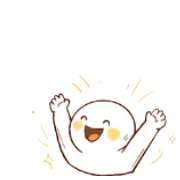
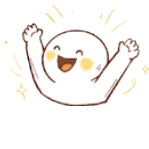
feat(ui): update timeline card layout with editorial dateline and top-right illustration
- Move character headshot to top-right corner with symmetric 18px insets
- Position timestamp as an editorial subheader dateline below emotion title
- Allow reflection note to span full card width below the header row
- Crop headshot PNG assets tightly to ink bounds for optical corner alignment

diff --git a/src/components/TimelineCard.tsx b/src/components/TimelineCard.tsx
@@ -130,30 +130,29 @@ export const TimelineCard: React.FC<Props> = ({ checkIn, onEdit, onDelete }) => 
           onPress={handleCardPress}
           style={styles.cardInner}
         >
-          {/* Main Card Content: Emotion Title + Reflection Note on Left, Time + Character on Right */}
-          <View style={styles.topSection}>
-            <View style={styles.contentColumn}>
+          {/* Arrangement: Header row (Title + Time on left, Illustration on right), Note below */}
+          <View style={styles.headerRow}>
+            <View style={styles.titleBlock}>
               <Text style={[styles.emotionTitle, { color: theme.text }]}>
                 {checkIn.primaryEmotion}
               </Text>
-              {Boolean(noteContent) && (
-                <Text style={[styles.noteText, { color: theme.textSecondary }]}>
-                  {noteContent}
-                </Text>
-              )}
-            </View>
-
-            <View style={styles.rightBay}>
               <Text style={[styles.timeText, { color: theme.textMuted }]}>
                 {timeFormatted}
               </Text>
-              <Image
-                source={QUADRANT_HEADSHOTS[checkIn.quadrant] || QUADRANT_HEADSHOTS.green}
-                style={styles.bayIllustration}
-                resizeMode="contain"
-              />
             </View>
+
+            <Image
+              source={QUADRANT_HEADSHOTS[checkIn.quadrant] || QUADRANT_HEADSHOTS.green}
+              style={styles.rightIllustration}
+              resizeMode="contain"
+            />
           </View>
+
+          {Boolean(noteContent) && (
+            <Text style={[styles.noteText, { color: theme.textSecondary }]}>
+              {noteContent}
+            </Text>
+          )}
         </TouchableOpacity>
       </Animated.View>
     </View>
@@ -192,43 +191,38 @@ const styles = StyleSheet.create({
     shadowOpacity: 0,
   },
   cardInner: {
-    paddingHorizontal: 20,
+    paddingHorizontal: 18,
     paddingVertical: 18,
     position: 'relative',
   },
-  topSection: {
+  headerRow: {
     flexDirection: 'row',
-    justifyContent: 'space-between',
     alignItems: 'flex-start',
-    gap: 12,
+    justifyContent: 'space-between',
   },
-  contentColumn: {
+  titleBlock: {
     flex: 1,
-    paddingRight: 4,
+    paddingRight: 12,
   },
-  rightBay: {
-    alignItems: 'flex-end',
-    gap: 4,
+  rightIllustration: {
+    width: 68,
+    height: 68,
     flexShrink: 0,
   },
-  bayIllustration: {
-    width: 84,
-    height: 84,
-  },
   emotionTitle: {
-    fontSize: 16,
+    fontSize: 18,
     fontFamily: fonts.bold,
     letterSpacing: -0.2,
-    marginBottom: 6,
+    marginBottom: 4,
   },
   timeText: {
     fontSize: 13,
     fontFamily: fonts.regular,
   },
   noteText: {
+    marginTop: 12,
     fontSize: 14,
     fontFamily: fonts.regular,
     lineHeight: 21,
-    marginBottom: 4,
   },
 });
